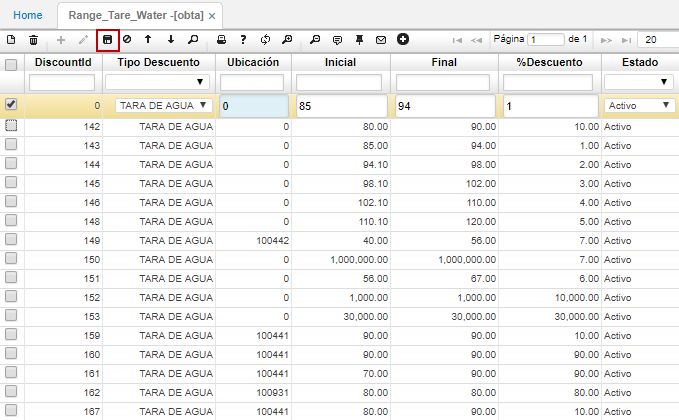
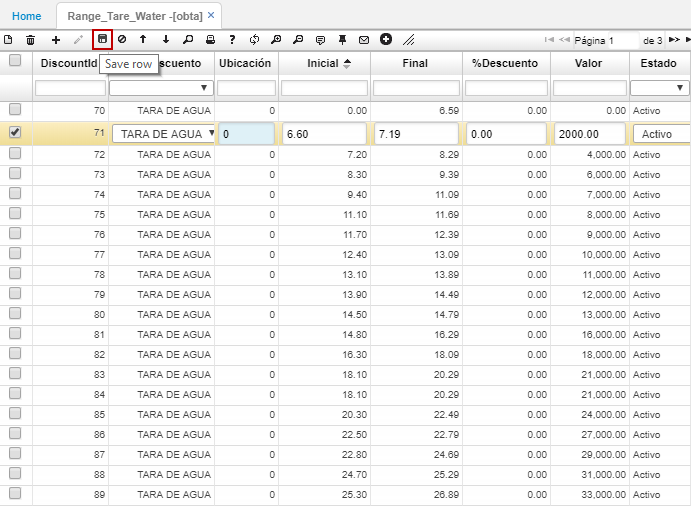
obta

diff --git a/Operacion/is/cafe/caprecio/obta.md b/Operacion/is/cafe/caprecio/obta.md
@@ -13,8 +13,6 @@ Seleccionamos la opción _Tara Agua_, seguidamente la ubicación y en los campos
 
 ![](obta.png)
 
-
-En el campo _%Descuento_, indicaremos el porcentaje de Tara de Agua de acuerdo al rango de factor de rendimiento ingresado anteriormente y damos click en el botón _Guardar_.  
-
+En el campo _%Descuento_, indicaremos el porcentaje de Tara de Agua de acuerdo al rango de factor de rendimiento ingresado anteriormente, en el campo _Valor_ tenemos la posibilidad de ingresar el valor del descuento del factor de rendimiento. Finalmente, damos click en el botón _Guardar_.  
 
 
